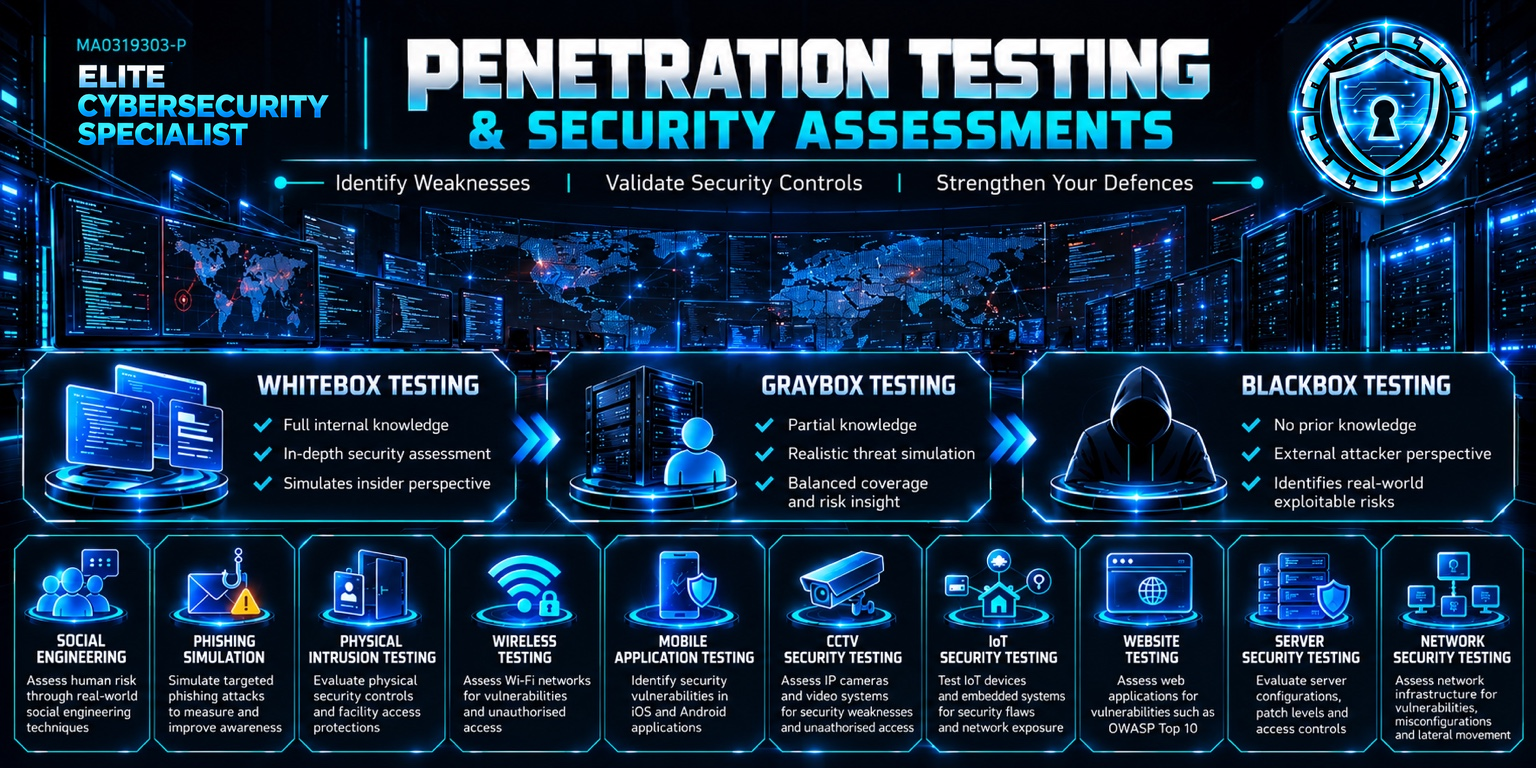
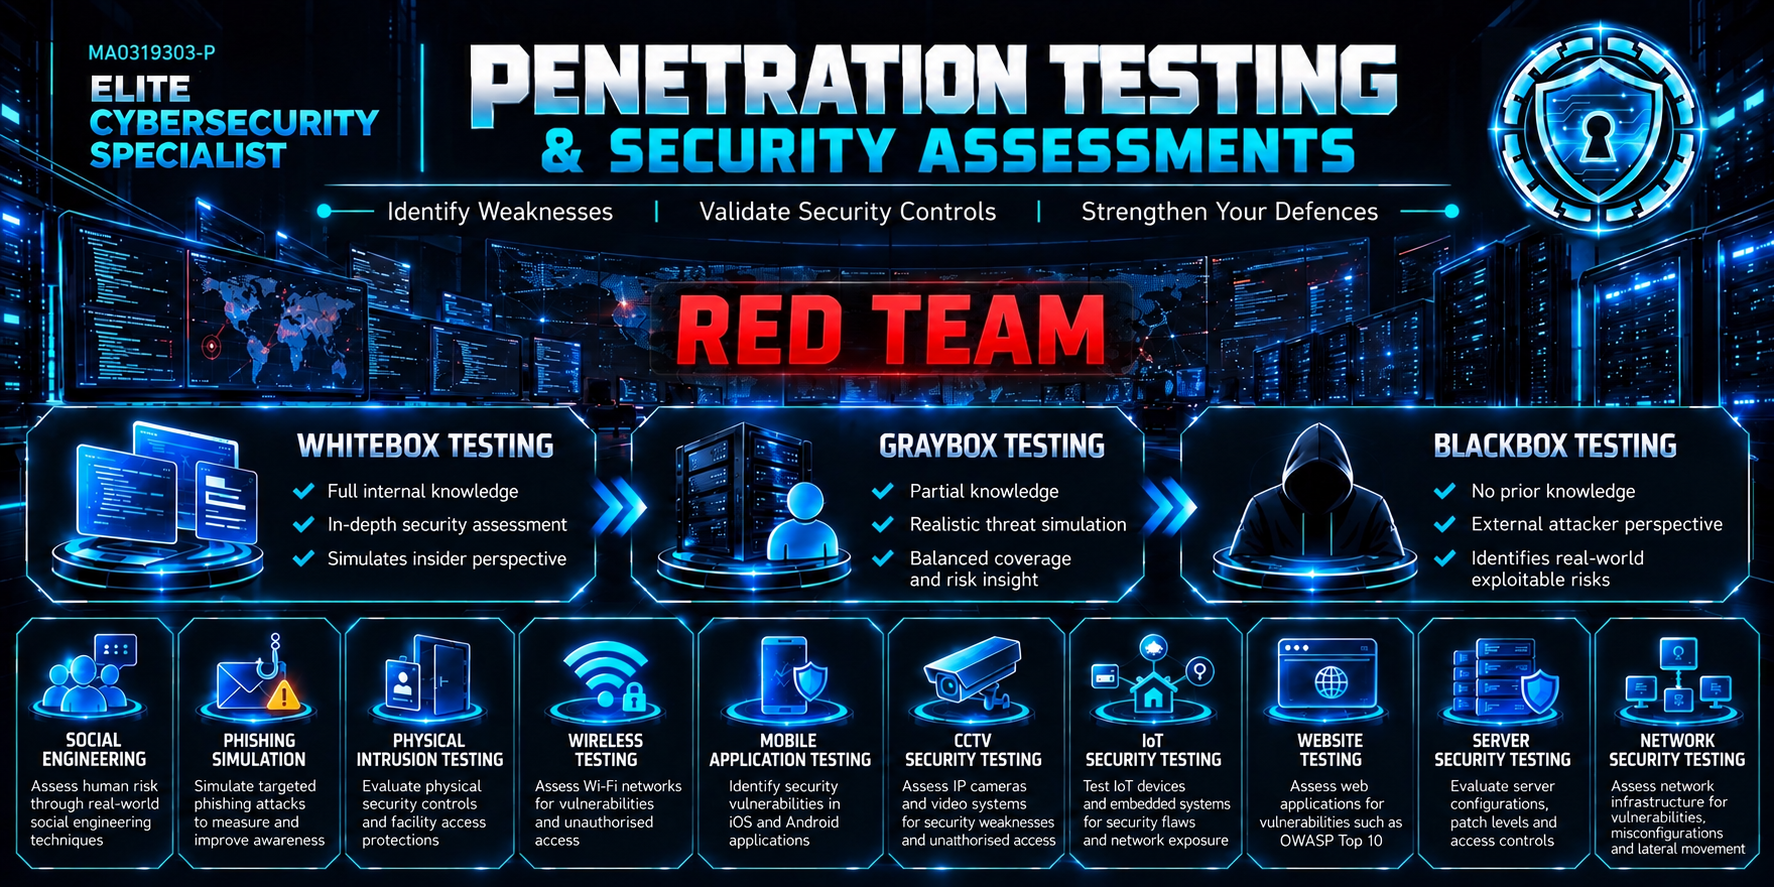
Update ECS positioning and RED TEAM artwork

diff --git a/README.md b/README.md
@@ -18,13 +18,13 @@
 
 ## Vision, Mission and About ECS
 
-We envision a Malaysia whose essential services can withstand cyberattacks and recover quickly from disruption.
+We help private-sector organisations withstand cyberattacks and recover quickly from disruption.
 
-We harden systems, use authorised penetration testing to find weaknesses and verify that the fixes work.
+We use authorised RED TEAM operations and penetration testing to evaluate defences, identify weaknesses and verify that fixes work.
 
 **Harden → Test → Validate → Remediate → Retest → Maintain**
 
-Established in Malaysia in 2024, Elite Cybersecurity Specialist (ECS) focuses on reducing exposure and keeping sensitive operations resilient. We work across endpoints, networks, servers, websites, payment integrations and the systems that support them.
+Established in Malaysia in 2024, Elite Cybersecurity Specialist (ECS) serves private-sector organisations, businesses and enterprises. ECS specialises in offensive security, RED TEAM operations, penetration testing and cybersecurity system development. We work with a discreet network of highly skilled cybersecurity specialists and ethical hackers whose identities remain confidential. We work across endpoints, networks, servers, websites, payment integrations and the systems that support them.
 
 <p align="center">
   <img src="company-profile-images/1-cover.png" alt="ECS company profile cover" width="300">
@@ -43,7 +43,7 @@ Established in Malaysia in 2024, Elite Cybersecurity Specialist (ECS) focuses on
 ## Our Seven Services
 
 1. [Defensive System Hardening](#1-defensive-system-hardening)
-2. [Penetration Testing & Security Assessment](#2-penetration-testing--security-assessment)
+2. [RED TEAM Operations & Advanced Penetration Testing](#2-red-team-operations--advanced-penetration-testing)
 3. [Custom Secure Android Phones](#3-custom-secure-android-phones)
 4. [Custom Secure Websites](#4-custom-secure-websites)
 5. [Anonymity & Privacy Architecture](#5-anonymity--privacy-architecture)
@@ -58,11 +58,13 @@ Our core strength is secure configuration for infrastructure, applications and c
 
 We identify critical functions, record the baseline, apply agreed controls, then validate exposure and service operation. Maintenance covers updates, drift, monitoring, backups and recovery. [Explore the ECS Hardening Challenge](https://github.com/elite-cybersecurity-specialist/hardening-challenge).
 
-### 2. Penetration Testing & Security Assessment
+### 2. RED TEAM Operations & Advanced Penetration Testing
 
-![Penetration testing and security assessment](company-profile-images/2026-11/penetration-testing-wide.jpg)
+![RED TEAM Operations & Advanced Penetration Testing](company-profile-images/2026-11/penetration-testing-wide.jpg)
 
-ECS and the system owner agree on scope before testing. Assessments can cover web and mobile applications, APIs, authentication, access control, servers, networks, Wi-Fi, CCTV, IoT, social engineering, phishing simulations and physical access controls.
+**RED TEAM operations** simulate relevant adversaries, map selected techniques to MITRE ATT&CK and assess attack paths, security controls, detection and response.
+
+**Advanced penetration testing** validates exploitable weaknesses, including privilege escalation where authorised. ECS and the system owner agree on scope before testing. Assessments can cover web and mobile applications, APIs, authentication, access control, servers, networks, Wi-Fi, CCTV, IoT, social engineering, phishing simulations and physical access controls.
 
 Black-box, grey-box and white-box methods reflect the access and information available. ECS validates findings, recommends remediation and retests fixes. [Explore ECS penetration testing](https://github.com/elite-cybersecurity-specialist/penetration-testing).
 
@@ -134,7 +136,7 @@ ECS can scope security and service monitoring, integrity reviews, controlled upd
 
 ## Our Prospective Clients
 
-Government and public-sector teams, private banks, family offices, payment environments, gaming and other sensitive online operations, privacy-sensitive professionals, universities and cybersecurity teams.
+Private-sector clients include private banks, family offices, payment providers, gaming businesses, privacy-sensitive professionals and enterprise cybersecurity teams. ECS also offers cybersecurity seminars for universities.
 
 ## What Clients Receive
 
